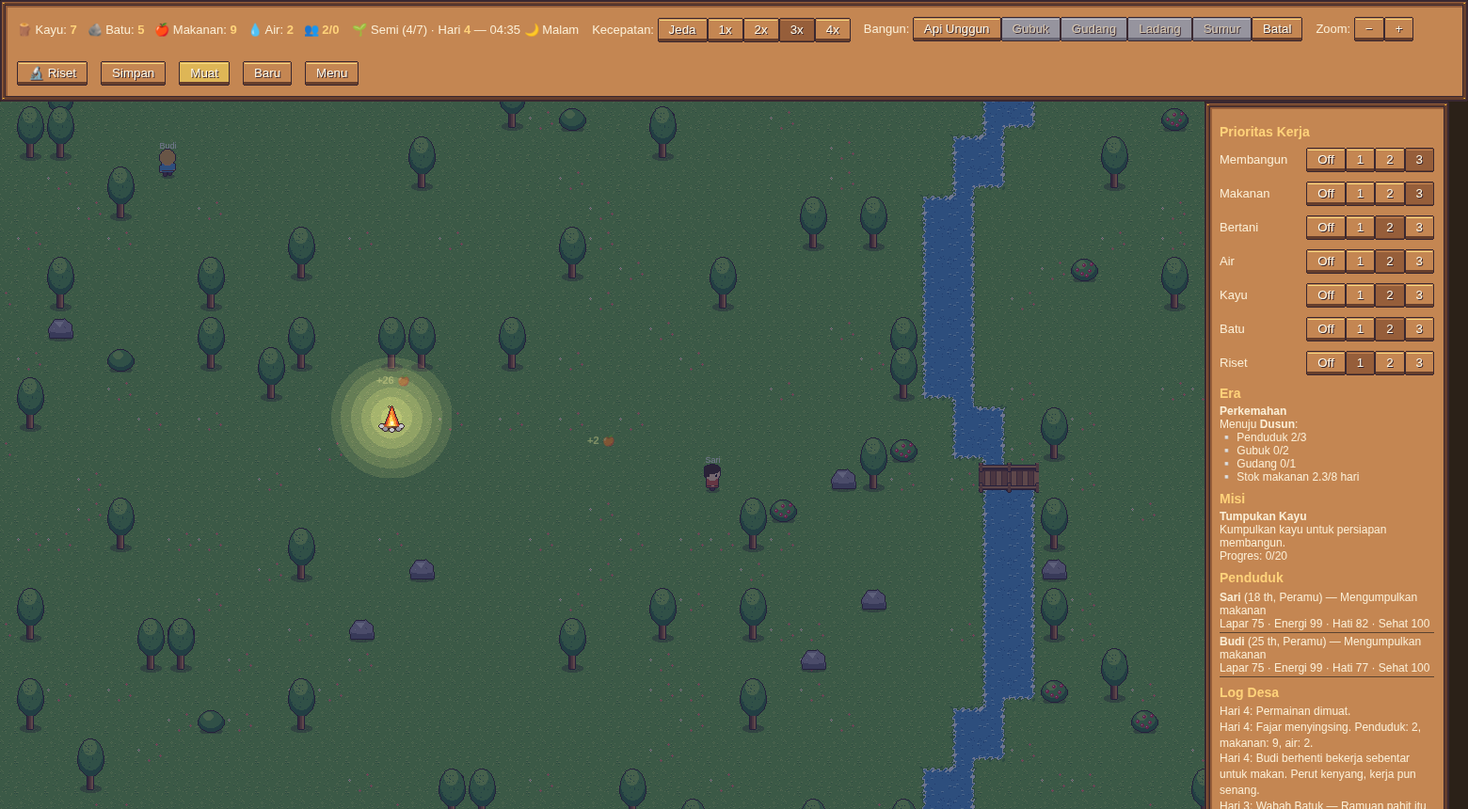
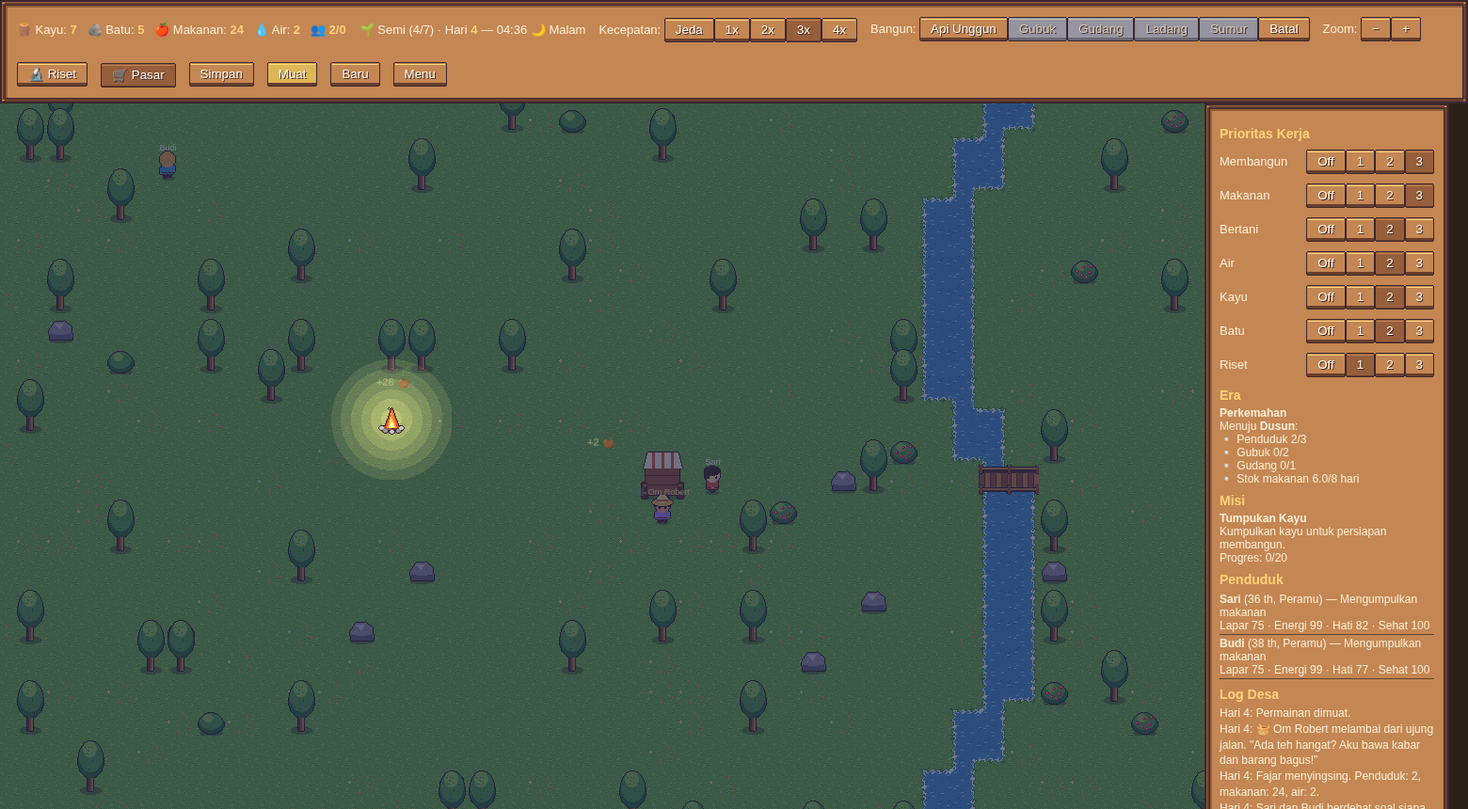
Tahap 3.4: pasar barter berbasis nilai + pedagang keliling (sprite, gerobak, jembatan), fluktuasi harga, kuota, nerf jual pangan; integrasi TEKS-GAME v1.1 (quest lanjutan, event era, efek & placeholder baru)

diff --git a/game.js b/game.js
@@ -28,7 +28,7 @@ function newGame() {
       do { x = Math.floor(r() * C.MAP_W); y = Math.floor(r() * C.MAP_H); } while (occ(x, y) && ++k < 200);
       if (k < 200) S.nodes.push({ type, x, y, amount: C.NODE_AMOUNT[RES_OF[type]], regrow: 0 }); } };
   place('pohon', 110); place('batu', 32); place('semak', 30);
-  computeBanks();
+  computeBanks(); marketInit();
   (C.START_BUILDINGS || []).forEach(([t, x, y]) => addBuilding(t, x, y, true));
   S.gathered = {}; S.era = 0; S.techDone = []; S.research = null; S.questIdx = 0; S.tutorialStep = 0; S.restUntil = 0; S.event = null;
   for (let i = 0; i < C.START_VILLAGERS; i++) spawnVillager(cx - 1 + i, cy + 1, true);
@@ -70,7 +70,8 @@ const unlocked = type => eraIndex(C.BUILDINGS[type].era || 'perkemahan') <= (S.e
 // ---------- teknologi (data dari tech.js) ----------
 let _techCache = null;
 function techNodes() { if (_techCache) return _techCache; const T = window.TECH || { nodes: [] }, over = (TEXT && TEXT.teknologi) || [];
-  _techCache = T.nodes.map(n => ({ ...n, ...(over.find(o => o.id === n.id) || {}), efek: n.efek || [], prasyarat: n.prasyarat || [] }));
+  _techCache = T.nodes.map(n => { const o = over.find(x => x.id === n.id) || {};
+    return { ...n, nama: o.nama || n.nama, deskripsi: o.deskripsi || n.deskripsi, efek_ringkas: o.efek_ringkas, teks_selesai: o.teks_selesai, angka: n.deskripsi, efek: n.efek || [], prasyarat: n.prasyarat || [] }; });
   _techCache.forEach(n => n.efek.forEach(e => { if (!(e.kunci in (T.kunci || {}))) console.info(`[tech] kunci efek "${e.kunci}" (${n.id}) belum didukung, diabaikan.`); }));
   return _techCache; }
 // nilai setelah efek tech selesai; ctx.b = bangunan (untuk kondisi seperti sumurDalam)
@@ -226,7 +227,7 @@ function updateVillager(v, dt) {
       v.working = true; t.work += dt * workMult(v, 'bertani');
       if (t.work >= (t.harvest ? C.FIELD.harvestTime : C.FIELD.plantTime) * techVal('tani_waktu', 1)) { v.working = false; v.skills.bertani += C.SKILL_GAIN;
         if (t.harvest) { const F = C.FIELD, res = F.crops[b.crop].res, n = Math.round(F.yieldMin + Math.random() * (F.yieldMax - F.yieldMin) + techVal('ladang_hasil', 0));
-          b.stage = 'kosong'; b.grow = 0; b.harvested = true; v.carry = { res, n }; vhist(v, `Memanen ${n} ${RES_LABEL[res].toLowerCase()}`); log(`${v.name} memanen ${n} ${RES_LABEL[res].toLowerCase()} dari ladang ${b.crop}.`);
+          b.stage = 'kosong'; b.grow = 0; b.harvested = true; S.harvests = (S.harvests || 0) + 1; v.carry = { res, n }; vhist(v, `Memanen ${n} ${RES_LABEL[res].toLowerCase()}`); log(`${v.name} memanen ${n} ${RES_LABEL[res].toLowerCase()} dari ladang ${b.crop}.`);
           const st = storage(v); v.task = { kind: 'setor', target: stPos(st) }; }
         else { b.stage = 'tumbuh'; b.grow = 0; b.harvested = false; v.task = null; } } break; }
     case 'air': { v.working = true; t.work += dt * workMult(v, 'meramu');
@@ -237,7 +238,7 @@ function updateVillager(v, dt) {
       v.working = true; R.progress += dt * workMult(v, 'meneliti');
       if (!t.t0) t.t0 = S.t; if (S.t - t.t0 > 20) { v.working = false; v.task = null; } // pilih ulang tiap 20 dtk
       if (R.progress >= n.work) { S.techDone.push(n.id); S.research = null; v.skills.meneliti = (v.skills.meneliti || 0) + C.SKILL_GAIN * 5;
-        log(`🎓 ${v.name} menyelesaikan riset ${n.nama}!`); vhist(v, `Menyelesaikan riset ${n.nama}`); v.working = false; v.task = null; techPanelUI(); } break; }
+        log(n.teks_selesai ? '🎓 ' + fill(n.teks_selesai, { nama: v.name }) : `🎓 ${v.name} menyelesaikan riset ${n.nama}!`); sfx('panen'); vhist(v, `Menyelesaikan riset ${n.nama}`); v.working = false; v.task = null; techPanelUI(); } break; }
   }
 }
 function deposit(v, drop) { if (v.carry) { if (!drop) { S.res[v.carry.res] += v.carry.n; S.gathered[v.carry.res] = (S.gathered[v.carry.res] || 0) + v.carry.n; notify(v.carry.res, v.carry.n, v); } v.carry = null; } }
@@ -249,6 +250,56 @@ function notify(res, n, v) { const near = notes.find(o => o.res === res && Math.
   if (notes.length >= (C.MAX_NOTES || 6)) notes.shift(); notes.push({ res, n, x: v.x, y: v.y, life: 2 }); }
 const ROLE = { menebang: 'Penebang', menambang: 'Penambang', meramu: 'Peramu', membangun: 'Tukang', bertani: 'Petani', meneliti: 'Peneliti' };
 function role(v) { const [k, n] = Object.entries(v.skills).sort((a, b) => b[1] - a[1])[0]; return n > 0 ? ROLE[k] : 'Pendatang'; }
+const sfx = n => { if (window.AUDIO) window.AUDIO.sfx(n); };
+// ---------- pasar & pedagang keliling ----------
+const M = () => C.MARKET;
+const FOODS = ['makanan', 'gandum'];
+function marketInit() { S.priceMod = S.priceMod || Object.fromEntries(Object.keys(M().harga).map(k => [k, 1]));
+  S.priceEvents = S.priceEvents || []; S.quotaUsed = S.quotaUsed || { jual: 0, beli: 0 }; S.trades = S.trades || 0;
+  if (S.nextMerchantDay == null) S.nextMerchantDay = C.MERCHANT.firstDay; }
+function addPriceEvent(side, items, pct, days) { S.priceEvents.push({ side, items, pct, until: S.day + days }); }
+const merchantHere = () => !!(S.merchant && S.merchant.state === 'berdagang');
+const marketOpen = () => merchantHere() || done('pasar').length > 0;
+function quota() { const q = M().quota[C.ERAS[S.era | 0].id] || [25, 20]; return { jual: q[0], beli: q[1], sisaJual: Math.max(0, q[0] - S.quotaUsed.jual), sisaBeli: Math.max(0, q[1] - S.quotaUsed.beli) }; }
+function foodSellMult() { const d = foodTotal() / foodPerDay(), m = M(); if (d <= m.foodSellSoftCapDays) return 1;
+  return Math.max(m.foodSellMinMult, 1 - (1 - m.foodSellMinMult) * (d - m.foodSellSoftCapDays) / (m.foodSellFloorDays - m.foodSellSoftCapDays)); }
+function priceOf(res, side) { const base = M().harga[res]; if (!base) return null; let p = base[side === 'jual' ? 0 : 1] * (S.priceMod[res] || 1);
+  const sm = (M().musim[season()] || {})[side]; if (sm && sm[res]) p *= sm[res];
+  let pct = 0; for (const e of S.priceEvents) if (e.side === side && e.items.includes(res)) pct += e.pct; p *= 1 + pct;
+  if (side === 'beli' && merchantHere()) p *= 1 - M().merchantBuyDiscount;
+  if (side === 'jual' && FOODS.includes(res)) p *= foodSellMult();
+  return Math.max(0.1, p); }
+// barter: berikan qty `give`, dapatkan `get` senilai (dibulatkan ke bawah)
+function tradeQuote(give, qty, get) { qty = Math.max(0, Math.floor(qty)); const ps = priceOf(give, 'jual'), pb = priceOf(get, 'beli');
+  if (!ps || !pb || give === get || !qty) return { ok: false, why: 'Pilih barang yang berbeda.' };
+  const value = qty * ps, n = Math.floor(value / pb), q = quota(), P = (TEXT && TEXT.pasar && TEXT.pasar.transaksi) || {};
+  const r = { ok: false, give, qty, get, n, value, cost: n * pb };
+  if ((S.res[give] || 0) < qty) r.why = fill(P.kurang_stok || 'Stok {sumber_daya} tidak cukup.', { sumber_daya: RES_LABEL[give].toLowerCase(), jumlah: qty - Math.floor(S.res[give] || 0) });
+  else if (n < 1) r.why = fill(P.nilai_kurang || 'Nilai belum cukup.', { sumber_daya: RES_LABEL[get].toLowerCase() });
+  else if (value > q.sisaJual + 1e-9 || r.cost > q.sisaBeli + 1e-9) r.why = P.kuota_tidak_cukup || 'Melebihi kuota hari ini.';
+  else r.ok = true;
+  return r; }
+function doTrade(give, qty, get) { const r = tradeQuote(give, qty, get); if (!marketOpen()) r.ok = false, r.why = (TEXT && TEXT.pasar && TEXT.pasar.belum_dibuka) || 'Pasar belum buka.';
+  if (!r.ok) { log('🛒 ' + r.why); return r; }
+  S.res[give] -= r.qty; S.res[get] = (S.res[get] || 0) + r.n; S.quotaUsed.jual += r.value; S.quotaUsed.beli += r.cost; S.trades++;
+  const P = (TEXT && TEXT.pasar && TEXT.pasar.transaksi) || {};
+  log('🛒 ' + fill(P.jual_berhasil || 'Terjual {jumlah} {sumber_daya}. Desa mendapat {jumlah2} {sumber_daya2}.', { jumlah: r.qty, sumber_daya: RES_LABEL[give].toLowerCase(), jumlah2: r.n, sumber_daya2: RES_LABEL[get].toLowerCase() }));
+  sfx('koin'); return r; }
+function marketNewDay() { const m = M();
+  for (const k of Object.keys(S.priceMod)) S.priceMod[k] = Math.min(m.clamp[1], Math.max(m.clamp[0], S.priceMod[k] * (m.drift[0] + Math.random() * (m.drift[1] - m.drift[0]))));
+  S.priceEvents = S.priceEvents.filter(e => e.until > S.day); S.quotaUsed = { jual: 0, beli: 0 };
+  if (!S.merchant && S.day >= S.nextMerchantDay) spawnMerchant(); }
+const DP = () => (TEXT && TEXT.dialog_pedagang) || {};
+function spawnMerchant() { const row = C.BRIDGE_ROWS[C.MERCHANT.spawn.row] ?? CAMP.y, names = DP().nama_pedagang || ['Pak Darto'];
+  S.merchant = { x: C.MERCHANT.spawn.x, y: row, home: { x: C.MERCHANT.spawn.x, y: row }, state: 'datang', name: pick(names), dir: 1, moving: true, id: 9999 };
+  const ev = C.MERCHANT.everyDays; S.nextMerchantDay = S.day + ev[0] + Math.floor(Math.random() * (ev[1] - ev[0] + 1));
+  log(`🔔 Pedagang keliling ${S.merchant.name} terlihat di seberang sungai.`); sfx('lonceng'); }
+function updateMerchant(dt) { const m = S.merchant; if (!m) return; const k = C.MERCHANT.speed / C.VILLAGER_SPEED;
+  if (m.state === 'datang') { const r = moveTo(m, { x: CAMP.x + 2, y: CAMP.y + 1 }, dt * k);
+    if (r || r === null) { m.state = 'berdagang'; m.moving = false; m.leaveAt = S.t + C.MERCHANT.stayFrac * C.DAY_LENGTH_SEC; m.dir = 0;
+      log('🧺 ' + fill(pick(DP().sapaan || ['{pedagang} datang!']), { pedagang: m.name })); sfx('lonceng'); } }
+  else if (m.state === 'berdagang') { if (S.t >= m.leaveAt) { m.state = 'pergi'; log('👋 ' + fill(pick(DP().perpisahan || ['{pedagang} pamit.']), { pedagang: m.name })); } }
+  else if (m.state === 'pergi') { const r = moveTo(m, m.home, dt * k); if (r || r === null) S.merchant = null; } }
 // ---------- konten (TEKS-GAME.json) ----------
 const BID = { api_unggun: 'apiunggun', gubuk: 'gubuk', gudang: 'gudang', ladang: 'ladang', sumur: 'sumur', dapur: 'dapur', bengkel_alat: 'bengkel', lumbung: 'lumbung', pasar: 'pasar', balai_desa: 'balai' }; // id JSON -> id internal
 const pick = a => a[Math.floor(Math.random() * a.length)];
@@ -256,7 +307,9 @@ function fill(tpl, extra = {}) {
   const vs = S.villagers, a = pick(vs), b = vs.find(v => v !== a) || a, m = TEXT.meta || {};
   const map = { hari: S.day, nama: a.name, nama2: b.name, umur: a.age, jumlah: 3 + Math.floor(Math.random() * 6),
     sumber_daya: pick(['kayu', 'batu', 'makanan']), bangunan: pick(Object.values(m.bangunan || { x: 'Gubuk' })),
-    skill: pick(Object.values(m.skill || { x: 'menebang' })), musim: 'semi', pesan_musim: '', era: 'Perkemahan', ...extra };
+    skill: pick(Object.values(m.skill || { x: 'menebang' })), musim: C.SEASON_NAMES[season()].toLowerCase(), pesan_musim: '', era: C.ERAS[S.era | 0].nama,
+    jumlah2: 2 + Math.floor(Math.random() * 6), sumber_daya2: pick(['makanan', 'gandum', 'alat']), persen: 10, nilai: 1, kuota: 0, hari_sisa: 5,
+    teknologi: S.research ? (techNodes().find(n => n.id === S.research.id) || {}).nama : 'ilmu baru', pencapaian: '', pedagang: (S.merchant && S.merchant.name) || 'Pedagang', ...extra };
   return tpl.replace(/^Hari \{hari\}:\s*/, '').replace(/\{(\w+)\}/g, (_, k) => map[k] ?? k);
 }
 function flavorLog() { if (!TEXT || !TEXT.log_harian) return; const cats = ['kerja', 'sosial', 'temuan'].filter(c => TEXT.log_harian[c]);
@@ -272,6 +325,8 @@ function applyEffects(ef, src) {
     else if (k === 'penduduk') { if (n > 0) for (let i = 0; i < n; i++) spawnVillager(CAMP.x, CAMP.y + 1, false, i === 0 ? S.eventName : null);
       else for (let i = 0; i < -n && S.villagers.length > 1; i++) log(`${S.villagers.pop().name} meninggalkan desa.`); }
     else if (k === 'hari_kerja_hilang') S.restUntil = S.t + n * C.DAY_LENGTH_SEC;
+    else if (k === 'progres_riset') { if (S.research) { const nd = techNodes().find(x => x.id === S.research.id); if (nd) S.research.progress = Math.min(nd.work - 0.01, S.research.progress + nd.work * n / 100); } }
+    else if (k === 'harga_jual_pangan' || k === 'harga_beli_pangan') addPriceEvent(k === 'harga_jual_pangan' ? 'jual' : 'beli', ['makanan', 'gandum'], n / 100, C.MARKET.eventDays);
     else if (k === 'kesehatan') S.villagers.forEach(v => v.health = Math.max(1, Math.min(100, (v.health ?? 100) + n)));
     else if (k === 'kesehatan_bangunan') { S.buildings.filter(b => b.done).forEach(b => b.hp = Math.max(0, Math.min(100, (b.hp ?? 100) + n)));
       if (n < 0) log(`Bangunan rusak ${-n}%. Tukang akan memperbaikinya.`); }
@@ -285,16 +340,19 @@ function eventAllowed(e) { const r = (C.EVENT_RULES || {})[e.id] || {}, year = M
   if (r.cooldownHari && S.day - ((S.eventLastDay || {})[e.id] ?? -999) < r.cooldownHari) return false;
   return true; }
 const eventWeight = e => { const r = (C.EVENT_RULES || {})[e.id]; return r && r.bobot != null ? r.bobot : e.bobot ?? 1; };
+const allEvents = () => !TEXT ? [] : [...(TEXT.event_acak || []), ...(TEXT.event_era_lanjut || [])];
+const eventEraOk = e => !e.era || eraIndex(e.era) <= (S.era | 0);
 function maybeEvent() { if (!TEXT || !TEXT.event_acak || S.day < C.EVENT_MIN_DAY || Math.random() > C.EVENT_CHANCE_PER_DAY) return;
-  const pool = TEXT.event_acak.filter(eventAllowed), total = pool.reduce((a, e) => a + eventWeight(e), 0); if (!total) return;
+  const pool = allEvents().filter(e => eventEraOk(e) && eventAllowed(e)), total = pool.reduce((a, e) => a + eventWeight(e), 0); if (!total) return;
   let r = Math.random() * total, ev = pool[pool.length - 1]; for (const e of pool) { r -= eventWeight(e); if (r <= 0) { ev = e; break; } }
   const year = Math.floor((S.day - 1) / (C.SEASON_DAYS * C.SEASONS.length));
   S.eventLastDay = S.eventLastDay || {}; S.eventYearCount = S.eventYearCount || {}; S.eventCount = S.eventCount || {};
   S.eventLastDay[ev.id] = S.day; S.eventYearCount[ev.id + '@' + year] = (S.eventYearCount[ev.id + '@' + year] || 0) + 1; S.eventCount[ev.id] = (S.eventCount[ev.id] || 0) + 1;
+  const em = M().eventMods[ev.id]; if (em) for (const [side, items] of Object.entries(em)) for (const [res, pct] of Object.entries(items)) addPriceEvent(side, [res], pct, M().eventDays);
   S.event = ev.id; showEvent(); }
 const addsPop = ef => (ef && ef.penduduk) > 0;
 const housingOk = ef => !addsPop(ef) || capacity() >= S.villagers.length + ef.penduduk;
-function showEvent() { const e = TEXT && TEXT.event_acak.find(x => x.id === S.event); if (!e) { S.event = null; return; }
+function showEvent() { const e = allEvents().find(x => x.id === S.event); if (!e) { S.event = null; return; }
   // event pendatang: siapkan nama baru yang belum dipakai untuk {nama}
   if (e.pilihan.some(p => addsPop(p.efek)) && !S.eventName) { const keep = S.nameIdx; S.eventName = freshName(); S.nameIdx = keep; }
   const box = $('modal'); box.style.display = 'block'; const nm = S.eventName ? { nama: S.eventName } : {};
@@ -302,17 +360,25 @@ function showEvent() { const e = TEXT && TEXT.event_acak.find(x => x.id === S.ev
   box.innerHTML = `<h3>${e.judul}</h3><p>${fill(e.deskripsi, nm)}</p>${noHouse}` + e.pilihan.map((p, i) => { const can = q => affordable(q.efek) && housingOk(q.efek), ok = can(p) || !e.pilihan.some(can) && i === e.pilihan.length - 1 && !addsPop(p.efek);
     const cost = Object.entries(p.efek || {}).map(([k, n]) => `${n > 0 ? '+' : ''}${n} ${RES_LABEL[resKeyOf(k)] || k.replace(/_/g, ' ')}`).join(', ');
     return `<button data-ev="${i}" ${ok ? '' : `disabled title="${housingOk(p.efek) ? 'Sumber daya tidak cukup' : 'Tidak ada tempat kosong di gubuk'}" style="opacity:.45"`}>${p.teks}</button> <small>(${cost})</small>`; }).join('<br>'); }
-function chooseEvent(i) { const e = TEXT.event_acak.find(x => x.id === S.event), p = e.pilihan[i];
+function chooseEvent(i) { const e = allEvents().find(x => x.id === S.event), p = e.pilihan[i];
   if (addsPop(p.efek) && !housingOk(p.efek)) { log(`${e.judul} — Tidak ada tempat untuk ${S.eventName || 'pendatang'}; ia melanjutkan perjalanan.`); }
   else { const nm = S.eventName ? { nama: S.eventName } : {}; applyEffects(p.efek, 'event ' + e.id); log(`${e.judul} — ${fill(p.teks_hasil || '', nm)}`); }
   S.event = null; S.eventName = null; $('modal').style.display = 'none'; }
-function quest() { return TEXT && TEXT.quest_awal && TEXT.quest_awal[S.questIdx]; }
+const allQuests = () => !TEXT ? [] : [...(TEXT.quest_awal || []), ...(TEXT.quest_lanjutan || [])];
+function quest() { return allQuests()[S.questIdx]; }
 function questProgress(q) { const g = q.tujuan;
   switch (g.tipe) {
     case 'bangun': { const id = BID[g.target]; return id ? done(id).length : null; }
     case 'kumpulkan': return g.target in S.res ? (S.gathered[g.target] || 0) : null;
     case 'simpan': return g.target in S.res ? Math.floor(S.res[g.target]) : null;
     case 'capai_penduduk': return S.villagers.length;
+    case 'riset': return g.target === 'semua' ? (S.techDone || []).length : ((S.techDone || []).includes(g.target) ? 1 : 0);
+    case 'transaksi_pasar': return S.trades || 0;
+    case 'panen': return S.harvests || 0;
+    case 'simpan_pangan': return Math.floor(foodTotal());
+    case 'hari_pangan': return Math.floor(foodTotal() / foodPerDay());
+    case 'capai_hari': return S.day;
+    case 'alami_event': return (S.eventCount || {})[g.target] || 0;
     case 'capai_era': { const i = eraIndex(g.target); return i < 0 ? null : ((S.era | 0) >= i ? g.jumlah || 1 : 0); }
     default: return null; } }
 function checkQuest() { const q = quest(); if (!q) return; const pr = questProgress(q);
@@ -368,6 +434,7 @@ function step(dt) {
   if (S.event) return;
   for (const v of S.villagers) updateVillager(v, dt);
   checkQuest();
+  updateMerchant(dt);
   for (const v of S.villagers.slice()) if (v.health <= 0) { S.villagers.splice(S.villagers.indexOf(v), 1); log(`💀 ${v.name} meninggal karena kelaparan/sakit.`); }
   const winter = isWinter();
   for (const b of S.buildings) if (b.type === 'ladang' && b.done && b.stage === 'tumbuh' && !winter && (b.grow += dt / C.DAY_LENGTH_SEC) >= C.FIELD.growDays + techVal('ladang_tumbuh', 0, { b })) b.stage = 'siap';
@@ -379,7 +446,9 @@ function newDay() {
   const pop = S.villagers.length; if (!pop) { log('Desa telah kosong... Mulai permainan baru.'); return; }
   // musim
   if ((S.day - 1) % C.SEASON_DAYS === 0) { const se = season(), m = TEXT && TEXT.meta && TEXT.meta.musim && TEXT.meta.musim.find(x => x.id === se);
-    log(`🍂 Musim ${C.SEASON_NAMES[se]} tiba. ${m ? m.pesan : ''}`); }
+    log(`🍂 Musim ${C.SEASON_NAMES[se]} tiba. ${m ? m.pesan : ''}`);
+    const pf = TEXT && TEXT.pasar && TEXT.pasar.pesan_fluktuasi, fid = { dingin: 'musim_dingin_pangan', semi: 'semi_kayu', panas: 'panas_makanan' }[se];
+    if (pf && fid && marketOpen()) { const x = pf.find(o => o.id === fid); if (x) log('📈 ' + fill(x.teks)); } }
   // air
   const wNeed = pop * C.WATER.perDayPerPop;
   if (S.res.air >= wNeed) S.res.air -= wNeed; else { S.res.air = 0; S.villagers.forEach(v => { v.mood -= C.WATER.shortageMood; v.health -= C.WATER.shortageHealth; });
@@ -393,6 +462,7 @@ function newDay() {
   // stok musim dingin
   const se = season(), buffer = foodPerDay() * C.WINTER_BUFFER_DAYS;
   if ((se === 'gugur' || se === 'dingin') && foodTotal() < buffer) log(`⚠ Stok untuk musim dingin kurang: ${Math.floor(foodTotal())}/${Math.ceil(buffer)} (target ${C.WINTER_BUFFER_DAYS} hari). Perbanyak panen & simpan makanan!`);
+  marketNewDay();
   checkEra();
   const mood = S.villagers.reduce((a, v) => a + v.mood, 0) / pop;
   S.moodGoodDays = mood >= C.SPAWN.minMood ? S.moodGoodDays + 1 : 0;
@@ -485,6 +555,7 @@ function render() {
     list.push({ y: b.y + d.h, draw: () => drawBuilding(b, d) }); }
   // penduduk yang berbagi tile digeser sedikit agar tidak bertumpuk
   const groups = {};
+  if (S.merchant) list.push({ y: S.merchant.y + 1, draw: () => drawMerchant(S.merchant) });
   for (const v of S.villagers) { const k = Math.round(v.x * 2) + ',' + Math.round(v.y * 2); (groups[k] = groups[k] || []).push(v); }
   for (const g of Object.values(groups)) g.forEach((v, i) => { const off = (i - (g.length - 1) / 2) * 12;
     list.push({ y: v.y + 1 + 0.01 * i, draw: () => drawVillager(v, off) }); });
@@ -536,6 +607,15 @@ function drawBuilding(b, d) {
   if (!b.done) { bar(b.progress / d.work, '#ffd27a'); ctx.fillStyle = '#fff'; ctx.font = '10px sans-serif'; ctx.fillText(d.nama, b.x * T + 1, b.y * T + d.h * T - 2); }
   else if ((b.hp ?? 100) < 100) bar(b.hp / 100, '#e05050');
 }
+function drawMerchant(m) { const a = ASSETS.pedagang, c = ASSETS.gerobak, dir = m.dir || 0, t = performance.now() / 1000;
+  const vx = [0, -1, 1, 0][dir], vy = [1, 0, 0, -1][dir], cx = m.x - vx * 0.9, cy = m.y - vy * 0.9;
+  const drawCart = () => { if (c.image) ctx.drawImage(c.image, dir * 64, (m.moving ? Math.floor(t * 5) % 2 : 0) * 64, 64, 64, Math.round(cx * T + 16 - 32), Math.round(cy * T + 16 - 40), 64, 64);
+    else { ctx.fillStyle = '#8a5a32'; ctx.fillRect(cx * T + 2, cy * T + 8, 28, 18); } };
+  if (vy >= 0) drawCart(); // gerobak di belakang (atas) pedagang
+  if (a.image) { const row = (m.moving ? 4 : 0) + dir, fr = Math.floor(t * (m.moving ? 8 : 3)) % 4; ctx.drawImage(a.image, fr * 32, row * 32, 32, 32, Math.round(m.x * T), Math.round(m.y * T), 32, 32); }
+  else { ctx.fillStyle = '#7a3b8a'; ctx.fillRect(m.x * T + 10, m.y * T + 12, 12, 14); }
+  if (vy < 0) drawCart();
+  ctx.fillStyle = '#ffe9a0'; ctx.font = '9px sans-serif'; ctx.textAlign = 'center'; ctx.fillText('🛒 ' + m.name, m.x * T + 16, m.y * T); ctx.textAlign = 'left'; }
 function drawVillager(v, off = 0) {
   if (v.id === selVid) { ctx.strokeStyle = '#ffe14a'; ctx.lineWidth = 2; ctx.beginPath(); ctx.ellipse(v.x * T + 16 + off, v.y * T + 29, 11, 5, 0, 0, 7); ctx.stroke(); }
   const a = ASSETS.penduduk, wk = ASSETS.penduduk_kerja, variant = v.color % 4, px = v.x * T + 16 + off, py = v.y * T + 16;
@@ -584,7 +664,7 @@ function ui() {
   const era = C.ERAS[S.era | 0], next = C.ERAS[(S.era | 0) + 1];
   setHTML('era', `<b>${era.nama}</b>` + (next ? `<br>Menuju <b>${next.nama}</b>:<br>` + eraReqStatus(next).map(([t, ok]) => `${ok ? '✅' : '▫'} ${t}`).join('<br>') : '<br>Era tertinggi tercapai!'));
   document.querySelectorAll('[data-b]').forEach(bt => { const k = bt.dataset.b; if (k) bt.disabled = !unlocked(k) || !canAfford(C.BUILDINGS[k].cost); });
-  setHTML('quest', questUI()); villagerPanelUI(); techPanelUI();
+  setHTML('quest', questUI()); villagerPanelUI(); techPanelUI(); marketUI(); $('marketbtn').classList.toggle('on', marketOpen());
   setHTML('log', S.log.slice(0, 15).map(l => `<div>${l}</div>`).join(''));
 }
 function techPanelUI() { const el = $('techpanel'); if (!el || el.style.display !== 'block') return;
@@ -597,8 +677,28 @@ function techPanelUI() { const el = $('techpanel'); if (!el || el.style.display 
     Prioritas kerja <b>Riset</b>: ${S.prio.riset || 'mati'}</div>
     <div class="tech-grid">${Object.entries(T.cabang).map(([cb, nm]) => `<div><h3>${nm}</h3>${nodes.filter(n => n.cabang === cb).map(n => { const s = techStatus(n);
       return `<div class="tech ${s.st === 'done' ? 'done' : s.st === 'active' ? 'active' : s.st === 'locked' ? 'locked' : ''}" data-tech="${n.id}">${ico(n)}<b>${n.nama}</b> <small style="display:inline">${n.id}</small>
-        <small>${n.deskripsi || ''}</small><small>Biaya: ${cost(n.biaya)} · Kerja: ${n.work}</small>
+        <small>${n.deskripsi || ''}</small>${n.efek_ringkas ? `<small><i>${n.efek_ringkas}</i></small>` : ''}${n.angka && n.angka !== n.deskripsi ? `<small>📊 ${n.angka}</small>` : ''}<small>Biaya: ${cost(n.biaya)} · Kerja: ${n.work}</small>
         <small>${ST[s.st]}${s.why ? ': ' + s.why.join(', ') : ''}</small>${s.st === 'available' ? `<button data-research="${n.id}">Teliti</button>` : ''}</div>`; }).join('') || '<small>Segera hadir</small>'}</div>`).join('')}</div>`); }
+function openMarket() { const el = $('market'); el.style.display = 'block'; const P = (TEXT && TEXT.pasar) || {}, L = P.label || {};
+  const opts = Object.keys(M().harga).map(k => `<option value="${k}">${RES_LABEL[k]}</option>`).join('');
+  el.innerHTML = `<button class="close" id="mkClose">✕</button><h3 style="margin-top:0">🛒 ${P.judul || 'Pasar Desa'}</h3><div style="font-size:12px">${P.deskripsi || ''}</div>
+    <div id="mkStatus" style="font-size:12px;margin:6px 0"></div><div id="mkTable"></div>
+    <div style="margin-top:8px"><b>${L.jual || 'Jual'}:</b> <input id="mkQty" type="number" min="1" value="10" style="width:56px"> <select id="mkGive">${opts}</select>
+    → <b>${L.beli || 'Beli'}:</b> <select id="mkGet">${opts}</select> <button id="mkDo">${L.konfirmasi || 'Sepakat!'}</button>
+    <div id="mkPreview" style="font-size:12px;margin-top:4px"></div></div>`;
+  $('mkGive').value = 'kayu'; $('mkGet').value = 'makanan'; delete _html.mkTable; delete _html.mkStatus; delete _html.mkPreview; marketUI(); }
+function marketUI() { const el = $('market'); if (!el || el.style.display !== 'block') return; const P = (TEXT && TEXT.pasar) || {}, L = P.label || {}, q = quota(), TT = P.tooltip_harga || {};
+  const m = S.merchant, open = marketOpen();
+  setHTML('mkStatus', (open ? (merchantHere() ? `🧺 <b>${m.name}</b> sedang berdagang (beli −${M().merchantBuyDiscount * 100}%).` : '🏪 Pasar desa buka.') : `⛔ ${P.belum_dibuka || 'Pasar belum buka.'}${m ? ' Pedagang sedang dalam perjalanan.' : ` Pedagang berikutnya sekitar hari ${S.nextMerchantDay}.`}`) +
+    `<br>${L.kuota || 'Kuota hari ini'}: ${fill((P.kuota && P.kuota.sisa) || 'Sisa kuota jual {jumlah} · beli {jumlah2}', { jumlah: Math.floor(q.sisaJual), jumlah2: Math.floor(q.sisaBeli) })}` +
+    (foodSellMult() < 1 ? `<br>🌾 ${(P.pesan_fluktuasi || []).find(x => x.id === 'pangan_melimpah')?.teks || 'Pangan melimpah, harga jual turun.'} (×${foodSellMult().toFixed(2)})` : ''));
+  setHTML('mkTable', `<table style="width:100%;font-size:12px;border-collapse:collapse"><tr><th align="left">${L.barang || 'Barang'}</th><th>${L.stok || 'Stok'}</th><th>${L.harga_jual || 'Jual'}</th><th>${L.harga_beli || 'Beli'}</th><th></th></tr>` +
+    Object.keys(M().harga).map(k => { const mod = S.priceMod[k] || 1, pct = Math.round((mod - 1) * 100);
+      const tip = fill(mod >= 1.35 ? TT.tertinggi : mod <= 0.75 ? TT.terendah : pct >= 5 ? TT.naik : pct <= -5 ? TT.turun : TT.stabil || '', { sumber_daya: RES_LABEL[k].toLowerCase(), persen: Math.abs(pct) });
+      return `<tr title="${tip}"><td>${RES_LABEL[k]}</td><td align="center">${Math.floor(S.res[k] || 0)}</td><td align="center">${priceOf(k, 'jual').toFixed(1)}</td><td align="center">${priceOf(k, 'beli').toFixed(1)}</td><td>${pct > 2 ? '▲' : pct < -2 ? '▼' : '•'}</td></tr>`; }).join('') + '</table>');
+  const g = $('mkGive'), t = $('mkGet'); if (!g) return; const r = tradeQuote(g.value, +$('mkQty').value, t.value);
+  setHTML('mkPreview', r.n != null && r.n >= 0 ? `${L.total || 'Total'}: ${r.qty} ${RES_LABEL[g.value]} (nilai ${r.value.toFixed(1)}) → <b>${r.n} ${RES_LABEL[t.value]}</b>${r.ok ? '' : ` — <span style="color:#a63e34">${r.why}</span>`}` : r.why || '');
+  $('mkDo').disabled = !open || !r.ok; }
 function openTech() { $('techpanel').style.display = 'block'; delete _html.techpanel; techPanelUI(); tutAction('buka_riset'); }
 function buildBuildBar() {
   $('buildbar').innerHTML = 'Bangun: ' + Object.entries(C.BUILDINGS).filter(([k]) => unlocked(k)).map(([k, d]) =>
@@ -610,6 +710,9 @@ function buildPrioUI() {
 document.addEventListener('click', e => { const d = e.target.dataset; if (!d) return;
   if (e.target.id === 'vpClose') closeVillager();
   if (e.target.id === 'techbtn') openTech();
+  if (e.target.id === 'marketbtn') openMarket();
+  if (e.target.id === 'mkClose') $('market').style.display = 'none';
+  if (e.target.id === 'mkDo') { doTrade($('mkGive').value, +$('mkQty').value, $('mkGet').value); marketUI(); }
   if (e.target.id === 'techClose') $('techpanel').style.display = 'none';
   if (d.research) startResearch(d.research);
   if (d.ev !== undefined) chooseEvent(+d.ev);
@@ -648,7 +751,7 @@ $('save').onclick = () => { localStorage.setItem(KEY, JSON.stringify({ ...S, vil
 $('load').onclick = () => loadGame(true);
 $('reset').onclick = () => { if (confirm('Mulai permainan baru?')) { S = null; newGame(); lastDay = S.day; buildPrioUI(); buildBuildBar(); tutorialUI(); } };
 function loadGame(verbose) { const s = localStorage.getItem(KEY); if (!s) { if (verbose) log('Belum ada simpanan.'); return false; }
-  try { const L = JSON.parse(s); if (!L.tiles || L.tiles.length !== C.MAP_H || L.tiles[0].length !== C.MAP_W) { if (verbose) log('Simpanan versi lama tidak cocok dengan peta baru.'); return false; } S = L; lastDay = S.day; S.prio = { ...C.DEFAULT_PRIO, ...S.prio }; S.techDone = S.techDone || []; S.research = S.research || null; S.gathered = S.gathered || {}; S.era |= 0; for (const [k, n] of Object.entries(C.START_RES)) if (!(k in S.res)) S.res[k] = 0; if (!S.banks) computeBanks(); S.villagers.forEach(v => { v.skills.bertani = v.skills.bertani || 0; if (v.health == null) v.health = 100; }); S.questIdx |= 0; S.tutorialStep |= 0; S.restUntil = S.restUntil || 0; buildPrioUI(); buildBuildBar(); tutorialUI(); $('modal').style.display = 'none'; if (S.event) showEvent(); log('Permainan dimuat.'); return true; } catch (e) { console.warn(e); return false; } }
+  try { const L = JSON.parse(s); if (!L.tiles || L.tiles.length !== C.MAP_H || L.tiles[0].length !== C.MAP_W) { if (verbose) log('Simpanan versi lama tidak cocok dengan peta baru.'); return false; } S = L; lastDay = S.day; S.prio = { ...C.DEFAULT_PRIO, ...S.prio }; S.techDone = S.techDone || []; S.research = S.research || null; marketInit(); S.gathered = S.gathered || {}; S.era |= 0; for (const [k, n] of Object.entries(C.START_RES)) if (!(k in S.res)) S.res[k] = 0; if (!S.banks) computeBanks(); S.villagers.forEach(v => { v.skills.bertani = v.skills.bertani || 0; if (v.health == null) v.health = 100; }); S.questIdx |= 0; S.tutorialStep |= 0; S.restUntil = S.restUntil || 0; buildPrioUI(); buildBuildBar(); tutorialUI(); $('modal').style.display = 'none'; if (S.event) showEvent(); log('Permainan dimuat.'); return true; } catch (e) { console.warn(e); return false; } }
 
 // ---------- loop ----------
 let prev = performance.now();
@@ -656,7 +759,7 @@ function frame(now) { const real = Math.min(0.25, (now - prev) / 1000); prev = n
   for (const n of notes) n.life -= real; while (notes.length && notes[0].life <= 0) notes.shift();
   let sim = menuOpen ? 0 : real * speed; while (sim > 0) { const d = Math.min(0.1, sim); step(d); sim -= d; }
   render(); ui(); requestAnimationFrame(frame); }
-window.DESA = { get state() { return S; }, startResearch, techVal, techNodes, openTech, showEvent, validSpot, canAfford, addBuilding, season,  step, cam, findPath, setZoom, centerCam };
+window.DESA = { get state() { return S; }, applyEffects, allEvents, eventEraOk, fill, marketNewDay, priceOf, tradeQuote, doTrade, spawnMerchant, marketOpen, quota, foodSellMult, openMarket, startResearch, techVal, techNodes, openTech, showEvent, validSpot, canAfford, addBuilding, season,  step, cam, findPath, setZoom, centerCam };
 fetch('TEKS-GAME.json').then(r => r.ok ? r.json() : null).catch(() => null).then(t => { TEXT = t;
   if (!t) console.warn('TEKS-GAME.json tidak dapat dimuat; memakai teks bawaan.');
   loadAssets(() => { newGame(); lastDay = S.day; buildPrioUI(); buildBuildBar(); centerCam(CAMP.x, CAMP.y); openMenu(); requestAnimationFrame(frame); }); });

diff --git a/tests/market.test.js b/tests/market.test.js
@@ -1,0 +1,35 @@
+// Pasar & pedagang keliling: kedatangan (sprite), harga, barter nilai, kuota, nerf jual pangan, UI.
+const { chromium } = require('playwright');
+const path = require('path');
+(async () => {
+  const b = await chromium.launch(); const p = await b.newPage({ viewport: { width: 1560, height: 860 } });
+  const errs = []; p.on('console', m => m.type() === 'error' && errs.push(m.text())); p.on('pageerror', e => errs.push(String(e)));
+  await p.goto(process.env.GAME_URL || 'http://localhost:8080/'); await p.evaluate(() => localStorage.clear()); await p.reload(); await p.waitForTimeout(900);
+  await p.click('#btnNew'); await p.click('#tutSkip'); await p.click('[data-s="0"]');
+  const r = {};
+  r.closedAtStart = await p.evaluate(() => !DESA.marketOpen());
+  // pedagang datang lewat jembatan
+  r.arrive = await p.evaluate(() => { const S = DESA.state; S.res.makanan = 60; S.res.air = 40; S.res.kayu = 200; DESA.spawnMerchant(); let crossed = false, steps = 0;
+    while (S.merchant && S.merchant.state === 'datang' && steps < 3000) { DESA.step(0.1); steps++; if (S.merchant && S.tiles[Math.round(S.merchant.y)][Math.round(S.merchant.x)] === 2) crossed = true; if (S.event) { const e = [...document.querySelectorAll('[data-ev]')].find(x => !x.disabled); e && e.click(); } }
+    return { state: S.merchant && S.merchant.state, crossedBridge: crossed, open: DESA.marketOpen(), steps }; });
+  // harga & barter
+  r.trade = await p.evaluate(() => { const S = DESA.state; const pj = DESA.priceOf('kayu', 'jual'), pb = DESA.priceOf('makanan', 'beli');
+    const q = DESA.tradeQuote('kayu', 10, 'makanan'); const k0 = S.res.kayu, f0 = S.res.makanan; const res = DESA.doTrade('kayu', 10, 'makanan');
+    return { pj, pb, n: q.n, expect: Math.floor(10 * pj / pb), ok: res.ok, kayuSpent: k0 - S.res.kayu, foodGot: S.res.makanan - f0, trades: S.trades }; });
+  r.quotaBlocks = await p.evaluate(() => !DESA.tradeQuote('kayu', 150, 'makanan').ok);
+  r.mods = await p.evaluate(() => { const S = DESA.state; const m0 = S.merchant; for (let i = 0; i < 60; i++) DESA.marketNewDay(); S.merchant = m0; const pm = Object.values(S.priceMod);
+    const before = DESA.foodSellMult(); S.res.makanan = 1000; const after = DESA.foodSellMult(); S.res.makanan = 60;
+    return { inRange: pm.every(x => x >= 0.7 && x <= 1.4), nerfLow: before, nerfHigh: after }; });
+  // UI
+  await p.click('#marketbtn'); await p.waitForTimeout(200);
+  r.ui = await p.evaluate(() => ({ rows: document.querySelectorAll('#mkTable tr').length, status: document.getElementById('mkStatus').textContent.slice(0, 60) }));
+  await p.fill('#mkQty', '6'); await p.selectOption('#mkGive', 'kayu'); await p.selectOption('#mkGet', 'makanan'); await p.waitForTimeout(150);
+  const t0 = await p.evaluate(() => DESA.state.trades); await p.click('#mkDo'); r.uiTrade = (await p.evaluate(() => DESA.state.trades)) === t0 + 1;
+  await p.evaluate(() => { const m = DESA.state.merchant; DESA.setZoom(2); DESA.centerCam(m.x, m.y - 2); }); await p.waitForTimeout(300);
+  await p.screenshot({ path: path.join(__dirname, '..', 'docs', 'screenshots', 'v4-market.png') });
+  // pergi
+  r.leaves = await p.evaluate(() => { const S = DESA.state; for (let i = 0; i < 3000 && S.merchant; i++) { DESA.step(0.1); if (S.event) { const e = [...document.querySelectorAll('[data-ev]')].find(x => !x.disabled); e && e.click(); } } return !S.merchant; });
+  const ok = r.closedAtStart && r.arrive.state === 'berdagang' && r.arrive.crossedBridge && r.arrive.open && r.trade.ok && r.trade.n === r.trade.expect && r.trade.kayuSpent === 10 &&
+    r.trade.foodGot === r.trade.n && r.quotaBlocks && r.mods.inRange && r.mods.nerfLow === 1 && r.mods.nerfHigh < 1 && r.ui.rows === 9 && r.uiTrade && r.leaves;
+  console.log(JSON.stringify({ r, ok, errs })); if (!ok || errs.length) process.exitCode = 1; await b.close();
+})();

diff --git a/index.html b/index.html
@@ -3,10 +3,10 @@
 <div id="top"><span id="res"></span><span id="time"></span>
 <span>Kecepatan: <button data-s="0">Jeda</button><button data-s="1" class="on">1x</button><button data-s="2">2x</button><button data-s="3">3x</button><button data-s="4">4x</button></span>
 <span id="buildbar"></span>
-<span>Zoom: <button id="zout">−</button><button id="zin">+</button></span> <button id="techbtn">🔬 Riset</button> <button id="save">Simpan</button><button id="load">Muat</button><button id="reset">Baru</button><button id="menubtn">Menu</button></div>
+<span>Zoom: <button id="zout">−</button><button id="zin">+</button></span> <button id="techbtn">🔬 Riset</button><button id="marketbtn">🛒 Pasar</button> <button id="save">Simpan</button><button id="load">Muat</button><button id="reset">Baru</button><button id="menubtn">Menu</button></div>
 <div id="wrap"><canvas id="c"></canvas><div id="side">
 <h3>Prioritas Kerja</h3><div id="prio"></div><h3>Era</h3><div id="era" style="font-size:12px"></div><h3>Misi</h3><div id="quest"></div><h3>Penduduk</h3><div id="vil"></div><h3>Log Desa</h3><div id="log"></div></div></div>
-<div id="modal" class="panel"></div><div id="tut" class="panel"></div><div id="vpanel" class="panel"></div><div id="techpanel" class="panel"></div>
+<div id="modal" class="panel"></div><div id="tut" class="panel"></div><div id="vpanel" class="panel"></div><div id="techpanel" class="panel"></div><div id="market" class="panel"></div>
 <div id="menu"><div class="box" id="menuMain"><img class="logo" src="assets/ui/logo/logo_2x.png" alt="Desa Mandiri" onerror="this.outerHTML='<h1>Desa Mandiri</h1>'"><div class="sub">Bangun desamu, rawat penduduknya.</div>
 <button class="big" id="btnNew">Main Baru</button><button class="big" id="btnContinue">Lanjutkan</button><button class="big" id="btnSettings">Pengaturan</button></div>
 <div class="box" id="menuSettings" style="display:none"><h1 style="font-size:28px">Pengaturan</h1>

diff --git a/tests/text-v11.test.js b/tests/text-v11.test.js
@@ -1,0 +1,21 @@
+// Integrasi TEKS-GAME.json v1.1: quest lanjutan, tipe tujuan baru, event era lanjut, efek baru, placeholder.
+const { chromium } = require('playwright');
+(async () => {
+  const b = await chromium.launch(); const p = await b.newPage();
+  const errs = []; p.on('console', m => m.type() === 'error' && errs.push(m.text())); p.on('pageerror', e => errs.push(String(e)));
+  await p.goto(process.env.GAME_URL || 'http://localhost:8080/'); await p.evaluate(() => localStorage.clear()); await p.reload(); await p.waitForTimeout(900);
+  await p.click('#btnNew'); await p.click('#tutSkip');
+  const r = await p.evaluate(() => { const S = DESA.state, out = {};
+    // quest ke-15 (q15 riset semua 3)
+    S.questIdx = 14; S.techDone = ['T01', 'T02']; DESA.step(0.1); out.q15Before = S.questIdx; S.techDone.push('T05'); DESA.step(0.1); out.q15After = S.questIdx;
+    S.questIdx = 17; S.trades = 5; DESA.step(0.1); out.q18 = S.questIdx;
+    // progres_riset & harga pangan
+    S.research = { id: 'T03', progress: 0 }; DESA.applyEffects({ progres_riset: 25 }, 'tes'); out.progress = S.research.progress;
+    const pb = DESA.priceOf('makanan', 'beli'); DESA.applyEffects({ harga_beli_pangan: 20 }, 'tes'); out.priceUp = +(DESA.priceOf('makanan', 'beli') / pb).toFixed(2);
+    // filter era: event era lanjut tidak muncul di perkemahan
+    out.eraFiltered = DESA.allEvents().filter(e => e.era).every(e => !DESA.eventEraOk(e));
+    out.placeholder = DESA.fill('{pedagang} {persen}% {jumlah2} {sumber_daya2} {teknologi} {kuota} {hari_sisa}');
+    return out; });
+  const ok = r.q15Before === 14 && r.q15After === 15 && r.q18 === 18 && r.progress === 15 && r.priceUp === 1.2 && r.eraFiltered && !/\{/.test(r.placeholder);
+  console.log(JSON.stringify({ r, ok, errs })); if (!ok || errs.length) process.exitCode = 1; await b.close();
+})();

diff --git a/balance.js b/balance.js
@@ -79,6 +79,22 @@ window.CONFIG = {
   ],
   FAV_TASK_BONUS: 12,   // bonus utilitas untuk tugas favorit penduduk (tidak menimpa kebutuhan kritis)
   VILLAGER_HISTORY: 10, // panjang riwayat per penduduk
+  // Pasar & pedagang keliling (docs/RISET-TAHAP3.md §2). Barter berbasis nilai: jual = qty × hargaJual × mod, beli = qty × hargaBeli × mod.
+  MARKET: {
+    harga: { makanan: [3, 5], gandum: [2, 4], kayu: [1, 2], batu: [1.2, 2.2], papan: [3, 5], batu_bata: [3, 5], alat: [12, 18], kulit: [4, 7] }, // [jual, beli]
+    drift: [0.92, 1.08], clamp: [0.7, 1.4],
+    musim: { // pengali per sisi
+      dingin: { jual: { makanan: 1.25, gandum: 1.25 }, beli: { makanan: 1.4, gandum: 1.4 } },
+      semi:   { jual: { kayu: 0.9 } },
+      panas:  { jual: { makanan: 0.85 } },
+    },
+    eventDays: 5,
+    eventMods: { panen_raya: { jual: { makanan: -0.2, gandum: -0.2 } }, badai: { beli: { makanan: 0.3 } }, kekeringan: { beli: { makanan: 0.3 } } },
+    merchantBuyDiscount: 0.1,         // diskon beli saat pedagang keliling mampir
+    foodSellSoftCapDays: 16, foodSellFloorDays: 24, foodSellMinMult: 0.6, // jual pangan melemah di atas 16 hari stok, min 0.6 pada 24 hari
+    quota: { perkemahan: [25, 20], dusun: [25, 20], desa_pertanian: [40, 30], kota_kecil: [70, 50] }, // [jual, beli] nilai per hari
+  },
+  MERCHANT: { firstDay: 4, everyDays: [9, 12], stayFrac: 0.35, speed: 2.0, spawn: { x: 59, row: 0 } }, // row = indeks BRIDGE_ROWS
   MAX_LOG: 40, MAX_NOTES: 6,
   FOOD_SURPLUS_FACTOR: 1.2, FOOD_SURPLUS_PENALTY: 25, // jika stok makanan melimpah, kerja makanan turun prioritas
   DEFAULT_PRIO: { bangun: 3, makanan: 3, bertani: 2, air: 2, kayu: 2, batu: 2, riset: 1 }, // 0=mati .. 3=tinggi

diff --git a/assets.js b/assets.js
@@ -85,6 +85,8 @@ window.ASSETS = {
   ikon_tech_era_camp: { ui: 'assets/icons/tech/tech_era_camp.png' }, ikon_tech_storage: { ui: 'assets/icons/tech/tech_storage.png' },
   ikon_tech_farming: { ui: 'assets/icons/tech/tech_farming.png' }, ikon_tech_well: { ui: 'assets/icons/tech/tech_well.png' },
   ikon_tech_bread: { ui: 'assets/icons/tech/tech_bread.png' }, ikon_tech_tools: { ui: 'assets/icons/tech/tech_tools.png' },
+  pedagang: { color: '#7a3b8a', img: 'assets/characters/merchant.png', fw: 32, fh: 32, frames: 4 },
+  gerobak:  { color: '#8a5a32', img: 'assets/characters/merchant_cart.png', fw: 64, fh: 64 }, // kolom = arah, baris = frame roda
   blob47:   { json: 'assets/tiles/autotile_blob47.json' },
 };
 window.loadAssets = function (done) {

diff --git a/theme.css b/theme.css
@@ -60,3 +60,5 @@ body.skin #menu{background:#1d1610 url(assets/ui/title/title_bg_640x360.png) cen
 body.skin #menu .box{background:none}
 .ico{width:16px;height:16px;vertical-align:-3px;image-rendering:pixelated;margin-right:3px}
 #menu .logo{display:block;margin:0 auto 6px;image-rendering:pixelated}
+
+#market{left:50%;top:70px;transform:translateX(-50%);width:520px} #market th{border-bottom:1px solid var(--line)} #market tr:hover td{background:rgba(0,0,0,.06)}
